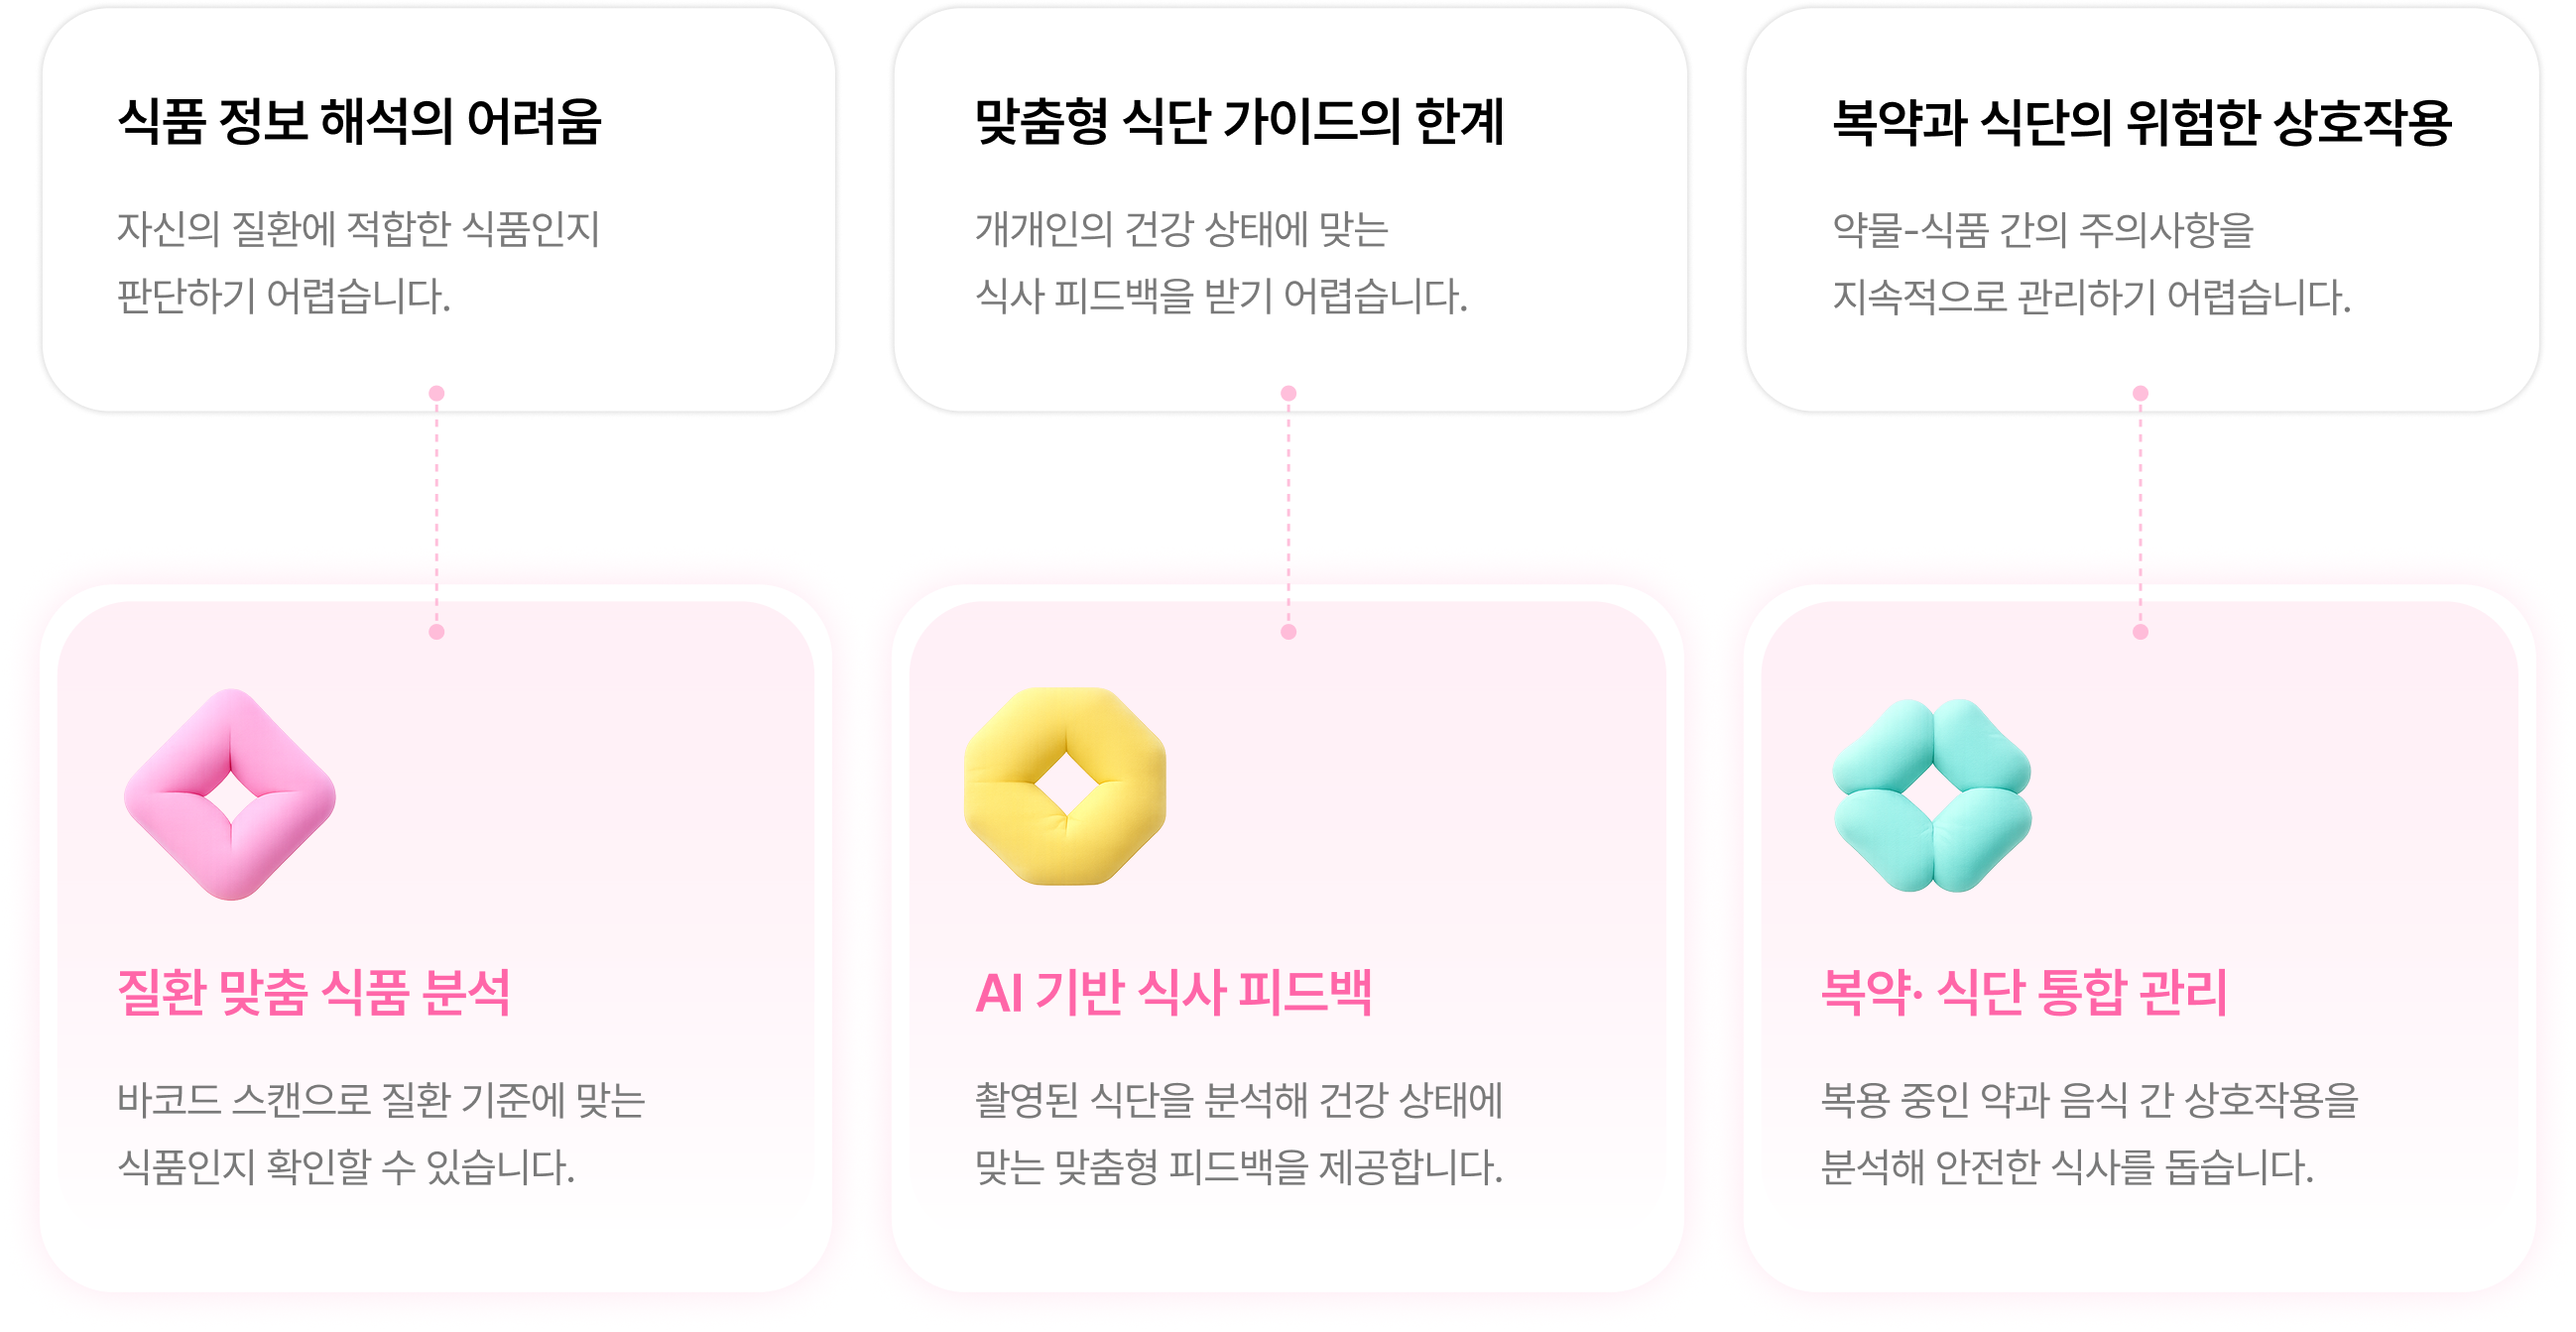
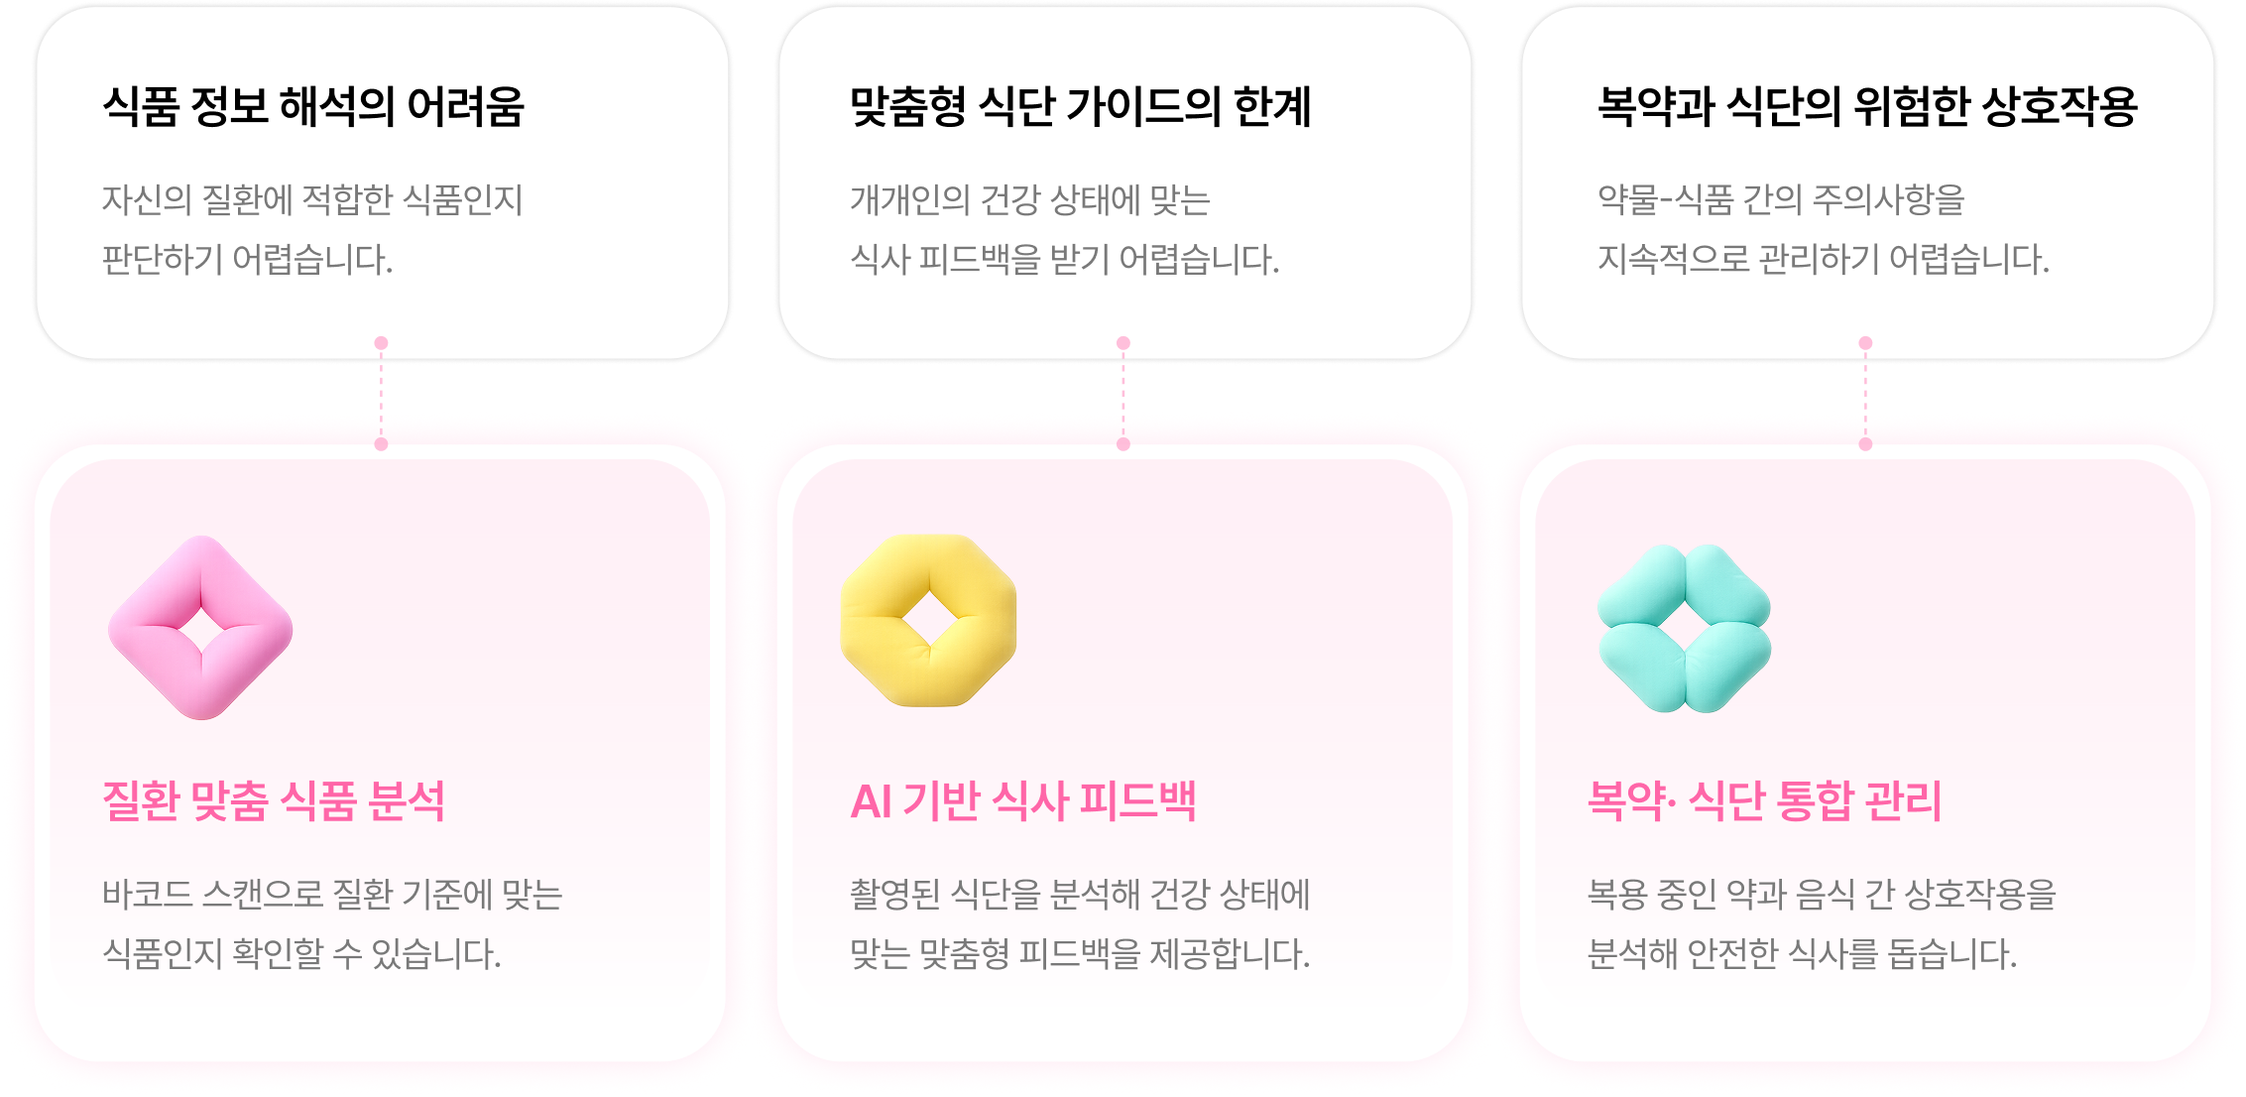
lastlast

diff --git a/src/styles/appShowingPage.css b/src/styles/appShowingPage.css
@@ -65,7 +65,8 @@
   align-items: center;
   min-height: clamp(300px, 22vw, 466px);
   margin: clamp(32px, 4vw, 80px) 8px;
-  padding: clamp(150px, 13vw, 250px) clamp(66px, 5.75vw, 110px) clamp(54px, 4.2vw, 80px);
+  padding: clamp(150px, 13vw, 250px) clamp(66px, 5.75vw, 110px)
+    clamp(54px, 4.2vw, 80px);
   overflow: hidden;
   border-radius: clamp(28px, 2vw, 44px);
   background: var(--detail-pink);
@@ -497,7 +498,6 @@
   left: calc(100% + 14.2vw);
 }
 
-
 .note-home-bottom-b::after {
   top: -10%;
   right: auto;
@@ -565,7 +565,6 @@
   font-size: var(--main-body-size);
   line-height: 2.05;
 }
-
 
 .diet-detail-group p {
   margin: 1.3vw 0 0;
@@ -850,7 +849,7 @@
   display: none;
 }
 
-.note-report-a::after{
+.note-report-a::after {
   display: none;
 }
 
@@ -959,7 +958,7 @@
   left: 8.7%;
   top: 0;
   width: 52%;
-  height: 100%
+  height: 100%;
 }
 
 .feed-visual strong {
@@ -1175,19 +1174,19 @@
 
   .home-note-mid-copy {
     --copy-top: 0;
-    --copy-left: 4%;
+    --copy-left: 40%;
     width: 19vw;
   }
 
   .home-note-bottom-a-copy {
     --copy-top: 10px;
-    --copy-left: -4%;
+    --copy-left: 40%;
     width: 20vw;
   }
 
   .home-note-bottom-b-copy {
     --copy-top: -18px;
-    --copy-left: -2%;
+    --copy-left: 42%;
     width: 21vw;
   }
 
@@ -1198,14 +1197,37 @@
 
   .report-copy {
     top: auto;
-    bottom: 6vw;
+    bottom: 3vw;
   }
 
-  .note-feed-a,
-  .note-feed-b,
+  .note-feed-a {
+    width: 24vw;
+    left: 71%;
+  }
+
+  .note-feed-b {
+    width: 24vw;
+  }
+
   .note-feed-c {
     width: 24vw;
   }
+
+  .diet-txt-group {
+    top: 80px;
+  }
+
+  .diet-caption {
+    font-size: 100%;
+  }
+
+  /* .feed-final-img {
+    display: block;
+    height: auto;
+    object-fit: contain;
+    position: relative;
+    width: 50%;
+  } */
 }
 
 @media (min-width: 901px) and (max-width: 1180px) {
@@ -1239,7 +1261,6 @@
   .feed-visual strong {
     width: auto;
   }
-
 }
 
 /* Requested service overview + final feed image. */
@@ -1259,7 +1280,7 @@
 .service-start-visual {
   display: grid;
   align-items: end;
-  min-height: clamp(560px, 51vw, 760px);
+  min-height: clamp(560px, 43.5vw, 760px);
   overflow: hidden;
   background: var(--detail-pink);
 }
@@ -1269,7 +1290,7 @@
   display: block;
   width: 36%;
   left: 2.8%;
-  top:12%;
+  top: 12%;
   max-width: none;
   transform: none;
 }
@@ -1305,7 +1326,7 @@
 
 .service-onboarding-card .service-start-copy span {
   display: block;
-  max-width: 660px;
+  max-width: 690px;
   margin-top: auto;
   color: #aaa;
   font-size: clamp(16px, 1.12vw, 21px);
@@ -1327,7 +1348,7 @@
 .feed-visual .feed-final-img {
   position: static;
   display: block;
-  width: 100%;
+  width: 85%;
   height: auto;
   object-fit: contain;
 }
@@ -1354,17 +1375,17 @@
 
 .feed-visual .note-feed-a {
   top: 13.5%;
-  left: 83%;
+  left: 70%;
 }
 
 .feed-visual .note-feed-b {
   top: 23%;
-  left: 61%;
+  left: 55%;
 }
 
 .feed-visual .note-feed-c {
   top: 43%;
-  left: 58%;
+  left: 55%;
 }
 
 @media (max-width: 900px) {

diff --git a/src/styles/IAPage.css b/src/styles/IAPage.css
@@ -48,6 +48,7 @@
 }
 
 .process-hero.is-visible .detail-hero-desc {
+  top: 16%;
   transition-delay: 180ms;
 }
 
@@ -259,7 +260,7 @@
 
 /* Requested process hero style: match the main pink background card. */
 .process-hero.detail-hero {
-  position: relative;
+  /* position: relative;
   grid-template-columns: 0.35fr 0.65fr;
   gap: clamp(48px, 7vw, 132px);
   align-items: center;
@@ -269,15 +270,28 @@
   overflow: hidden;
   border-radius: clamp(34px, 2.25vw, 44px);
   background: var(--detail-pink);
+  color: #fff; */
+  position: relative;
+  display: grid;
+  grid-template-columns: 0.35fr 0.65fr;
+  gap: clamp(48px, 7vw, 132px);
+  align-items: center;
+  min-height: clamp(300px, 24.2vw, 466px);
+  padding: clamp(150px, 13vw, 250px) clamp(66px, 5.75vw, 110px)
+    clamp(54px, 4.2vw, 80px);
+  overflow: hidden;
+  border-radius: clamp(34px, 2.25vw, 44px);
+  background: var(--pink);
   color: #fff;
 }
 
 .process-hero .detail-hero-copy p {
   position: absolute;
-  top: clamp(54px, 4.1vw, 80px);
-  left: clamp(86px, 5.9vw, 114px);
-  margin: 0;
+  top: clamp(-171px, -10vw, 80px);
+  /* left: clamp(86px, 5.9vw, 114px); */
   color: #fff;
+  font-size: 1.56vw;
+  font-weight: 600;
 }
 
 .process-hero .detail-hero-copy {

diff --git a/src/styles/mainPage.css b/src/styles/mainPage.css
@@ -1151,7 +1151,7 @@ section[id] {
 
 .market-layout > img {
   display: block;
-  width: 120%;
+  width: 110%;
   max-width: none;
   justify-self: start;
   opacity: 0;
@@ -1441,6 +1441,10 @@ section[id] {
     padding-left: 72px;
   }
 
+  .research-disease-card:nth-child(3) {
+    padding-left: 72px;
+  }
+
   .research-dot-graph {
     grid-template-rows: repeat(5, 21px);
     grid-template-columns: repeat(10, 21px);
@@ -1448,15 +1452,22 @@ section[id] {
   }
 
   .market-layout {
-    gap: 92px;
+    grid-template-columns: 520px minmax(0, 1fr);
+    gap: 72px;
+    margin-top: 106px;
+  }
+
+  .market-layout > img {
+    width: 100%;
   }
 
   .market-list {
-    margin-left: 44px;
+    margin-left: 20px;
   }
 
   .market-list article {
-    grid-template-columns: minmax(100px, 0.58fr) 150px minmax(360px, max-content);
+    grid-template-columns: 110px 150px minmax(320px, max-content);
+    gap: 26px;
   }
 
   .persona-section > .journey,

diff --git a/src/styles/designPage.css b/src/styles/designPage.css
@@ -383,7 +383,7 @@
 .design-system-final.main-icon-section .disease-icons-desc {
   display: block;
   max-width: none;
-  margin: 64px 0 132px;
+  margin: 38px 0 132px;
   color: #777;
   font-size: 24px;
   line-height: 1.7;
@@ -392,7 +392,7 @@
 .design-system-final .design-icons-final {
   display: block;
   width: min(100%, 1680px);
-  margin: 0 auto 130px;
+  margin: 0 auto 250px;
 }
 
 .design-system-board {
